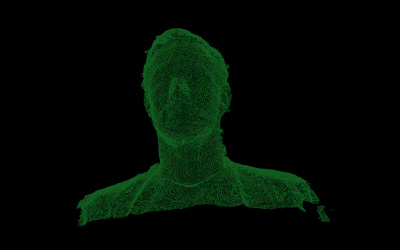
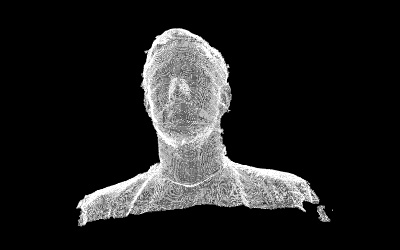
PCDLoader: Always use white as default color. (#24339)

Changed region(s): [[0.18, 0.112, 0.84, 0.924]]

diff --git a/examples/jsm/loaders/PCDLoader.js b/examples/jsm/loaders/PCDLoader.js
@@ -397,10 +397,6 @@ class PCDLoader extends Loader {
 
 			material.vertexColors = true;
 
-		} else {
-
-			material.color.setHex( Math.random() * 0xffffff );
-
 		}
 
 		// build point cloud
